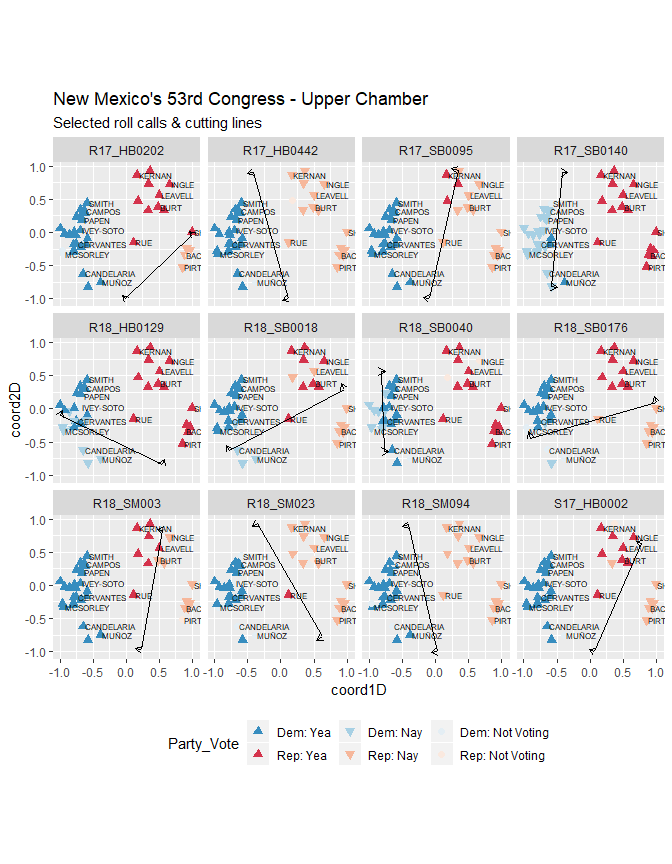
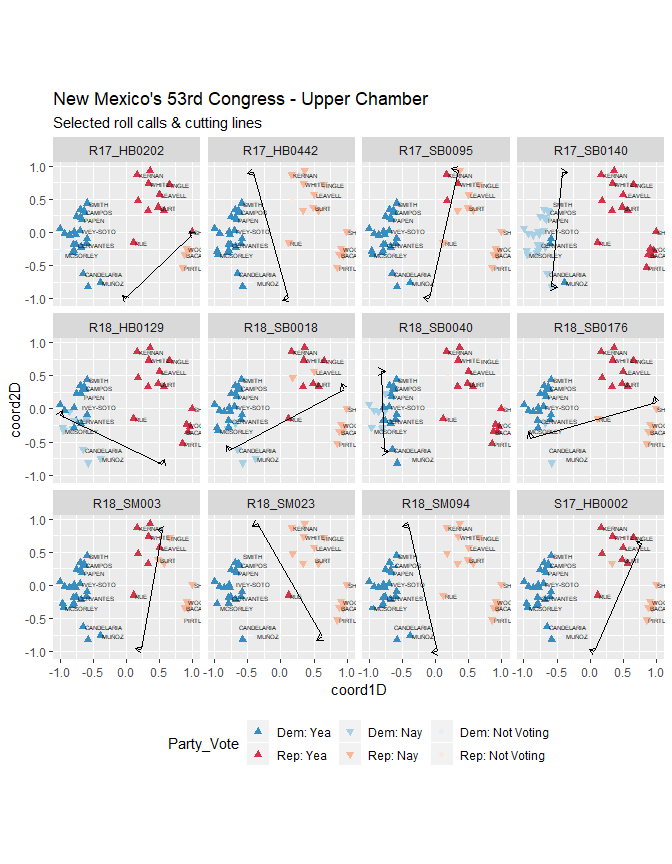
re

diff --git a/README.md b/README.md
@@ -89,7 +89,7 @@ resultd2 <- wnominate::wnominate (datRC,
 ## 
 ## 
 ## W-NOMINATE estimation completed successfully.
-## W-NOMINATE took 5.42 seconds to execute.
+## W-NOMINATE took 5.56 seconds to execute.
 ```
 
 ### Plot two-dimensional model
@@ -255,13 +255,13 @@ cut_sub <- subset(with_cuts, Bill_Code %in% select_cuts)
 sub %>%
 ggplot(aes(x=coord1D, y=coord2D)) +
   geom_point(aes(color = Party_Vote, shape= Party_Vote, fill = Party_Vote),
-             size= 2) +
+             size= 1.5) +
   nmlegisdatr::nml_color_vote() +
   nmlegisdatr::nml_fill_vote() +
   nmlegisdatr::nml_shape_vote()+
   theme(legend.position = 'bottom') +
   geom_text(aes(label=Representative), 
-            size=2, 
+            size=1.5, 
             check_overlap = TRUE, 
             hjust = 0, 
             nudge_x = 0.03)+
